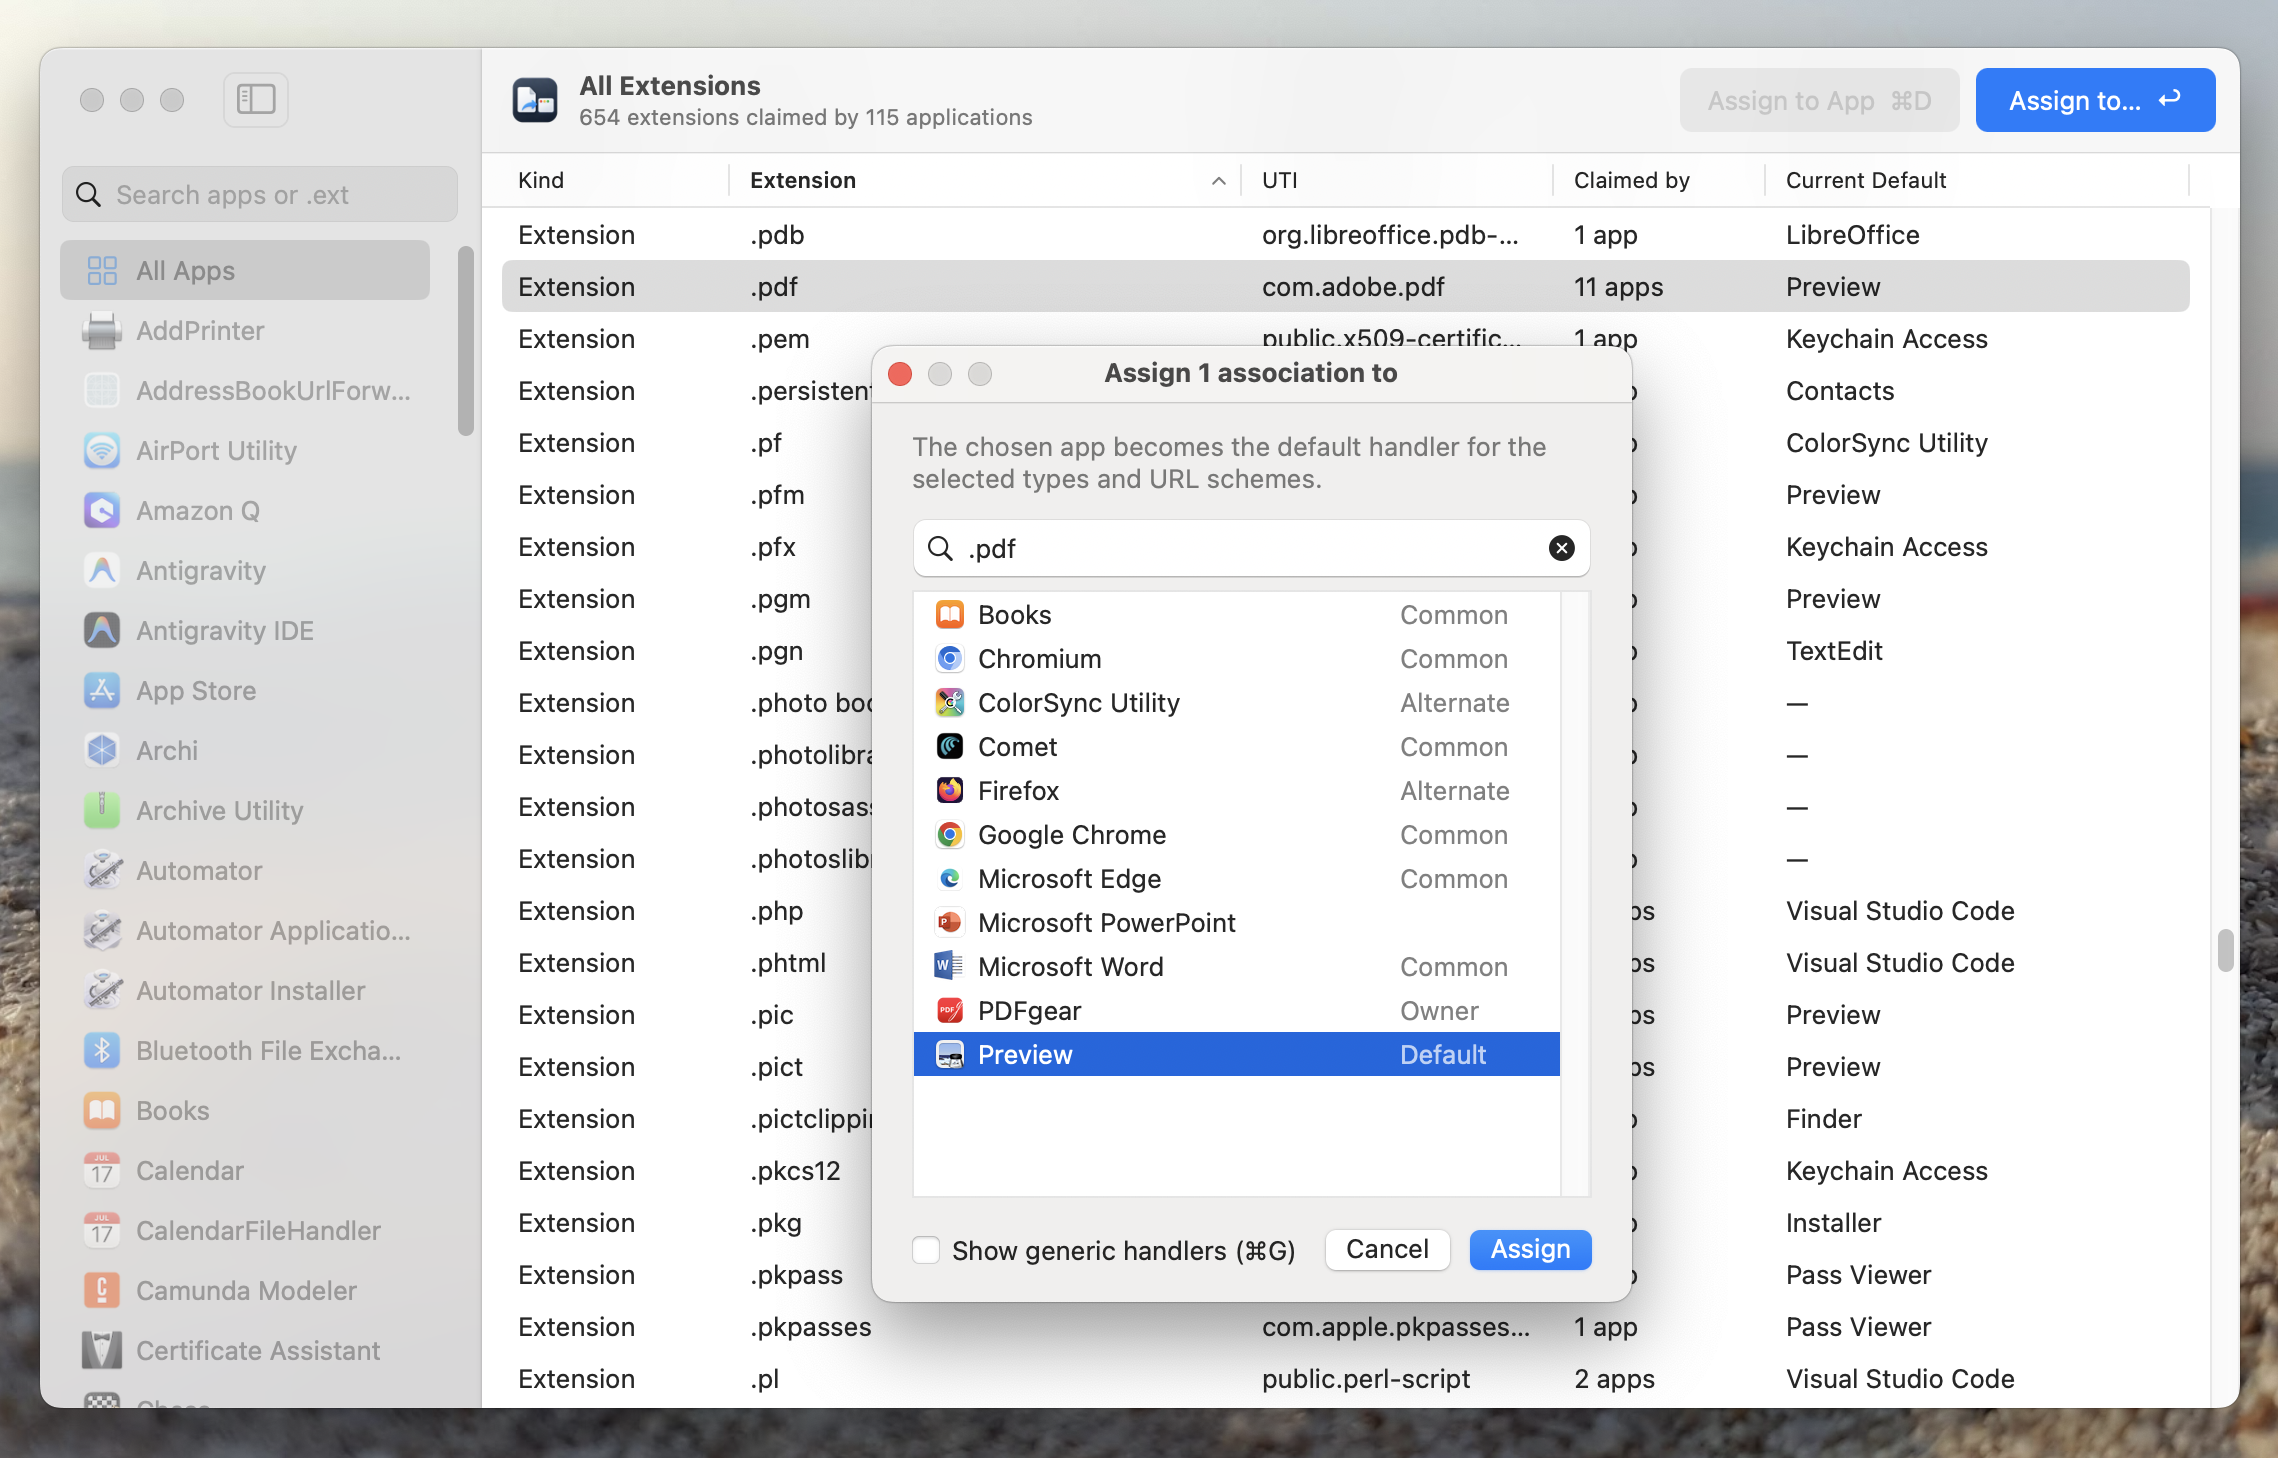
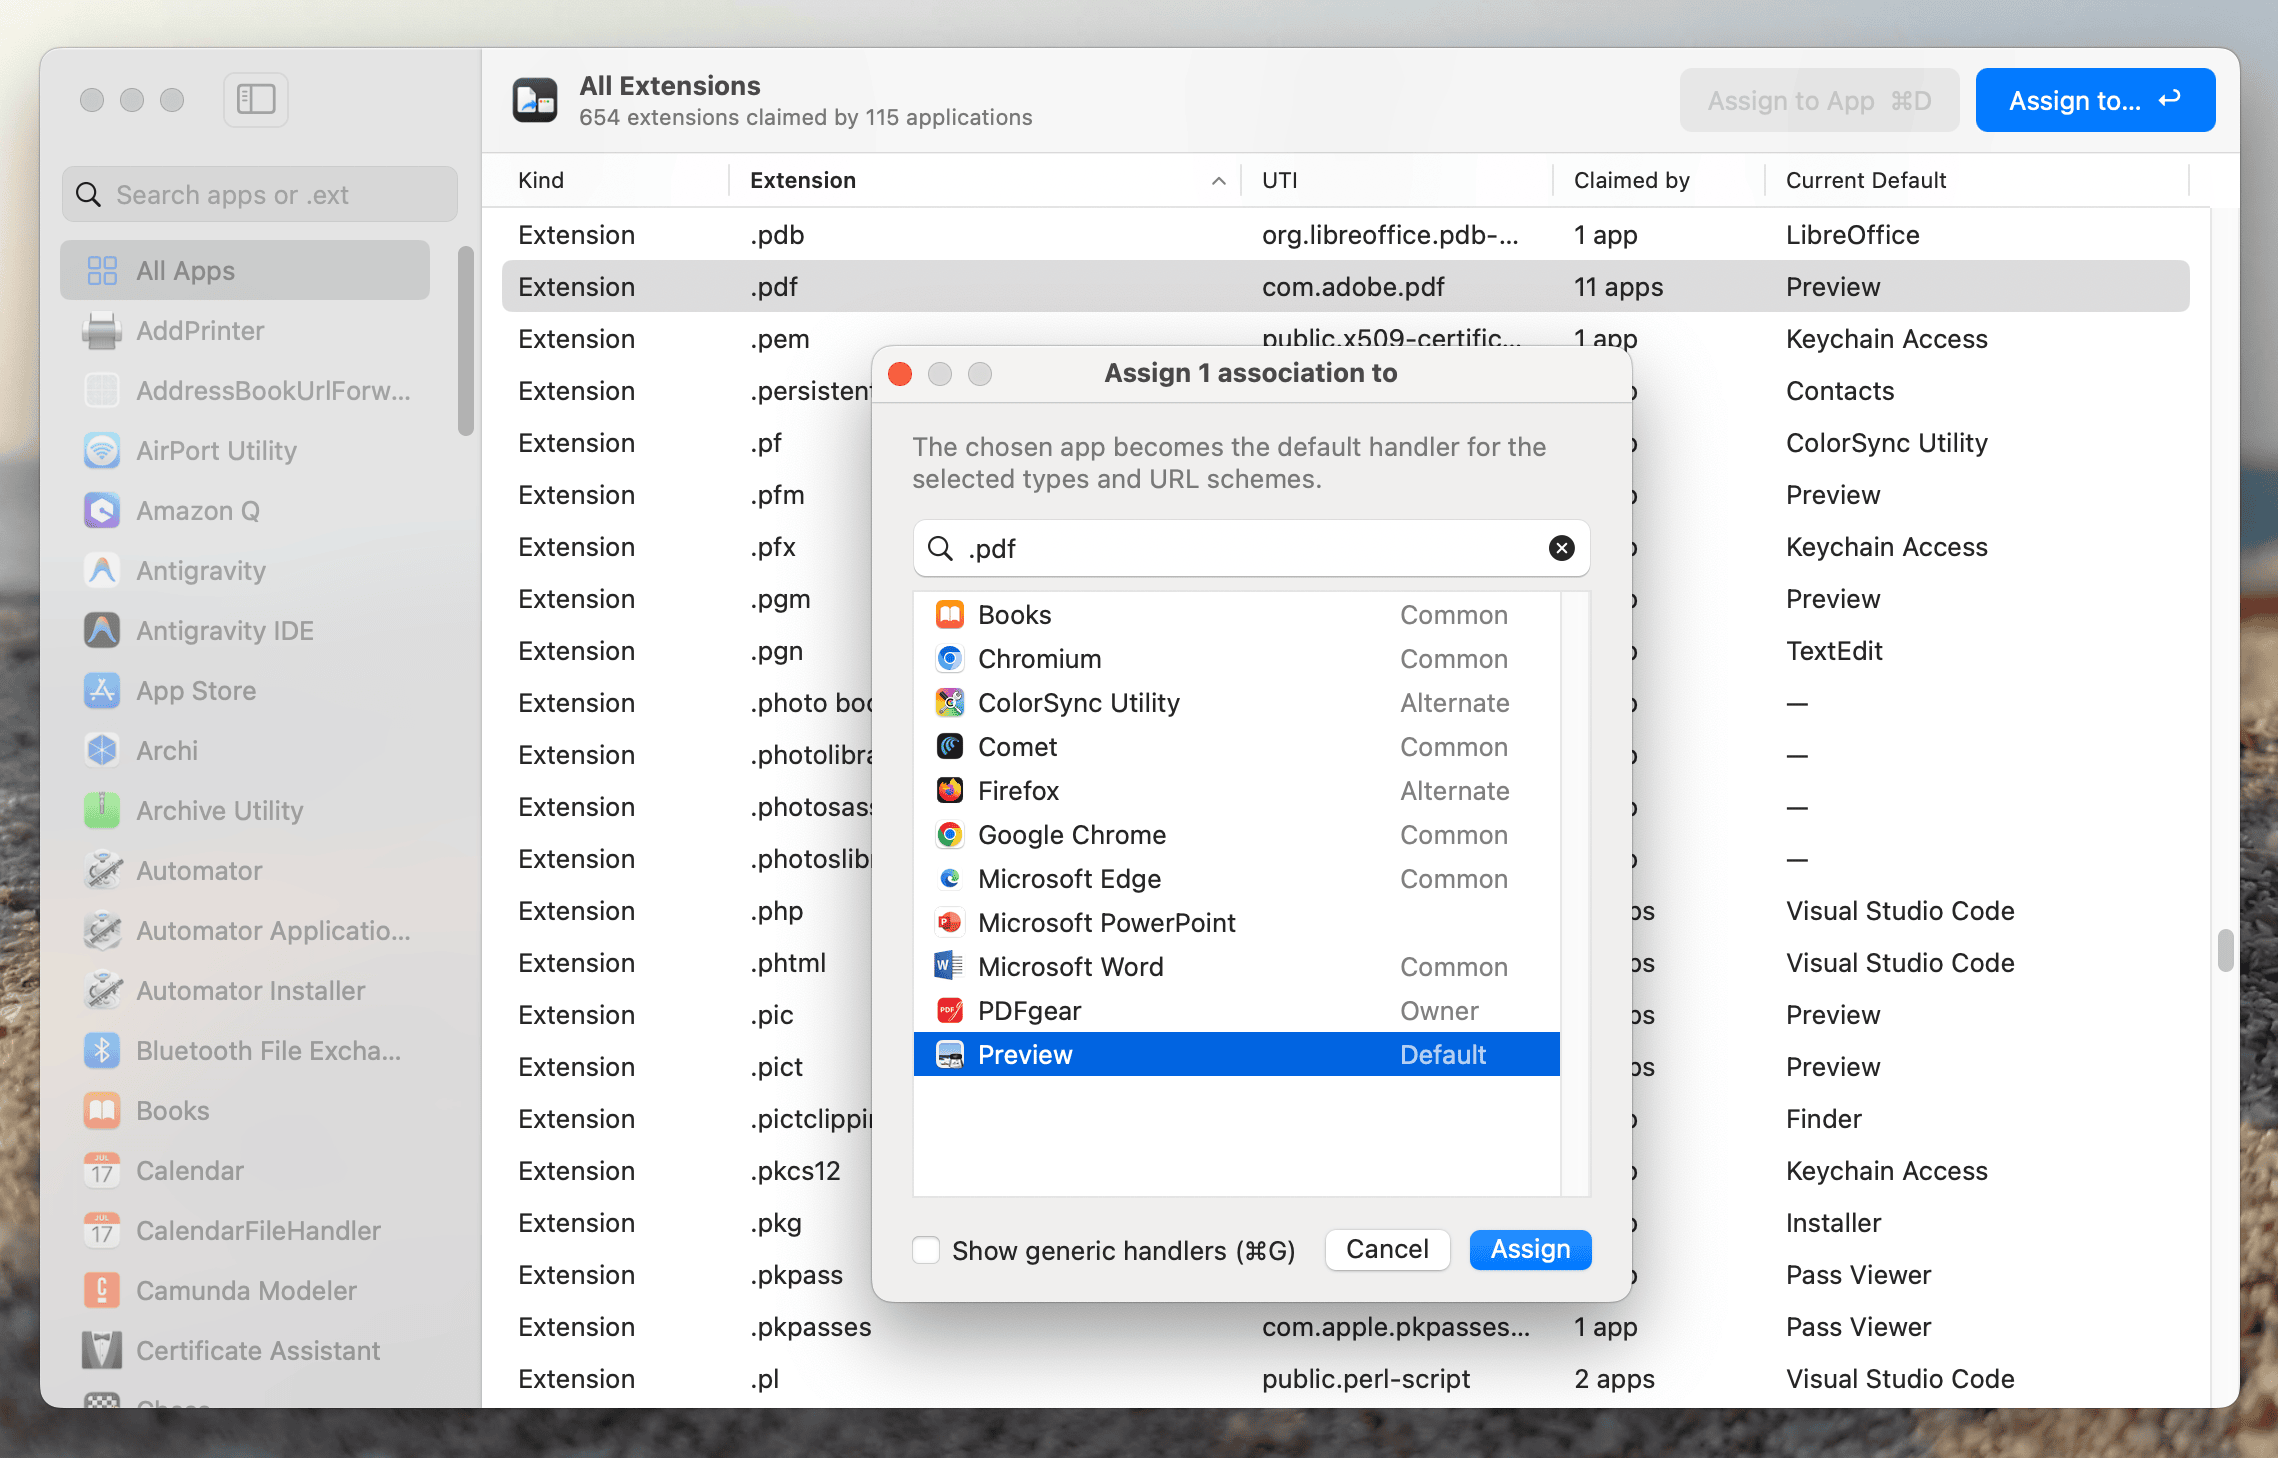
Compress screenshots, shrink chooser image in README

diff --git a/README.md b/README.md
@@ -23,7 +23,7 @@ The app was inspired by [`duti`](https://github.com/moretension/duti). It starte
 - **Generic handlers hidden by default.** Apps that claim "any file" (`public.data`) are filtered out unless you press **⌘G**.
 - **Copy to clipboard.** Use **⌘C** on any selection.
 
-![Open With file chooser: pick an app to open README.md](docs/open-with.png)
+<p align="center"><img src="docs/open-with.png" width="400" alt="Open With file chooser: pick an app to open README.md"></p>
 
 ## Install
 
